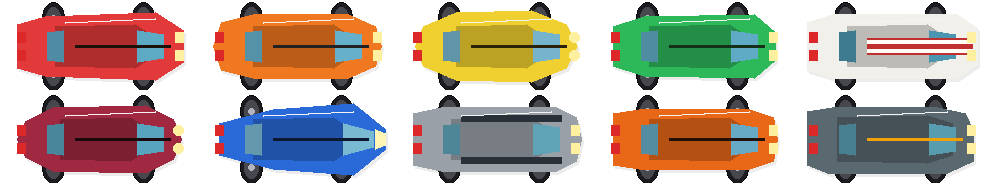
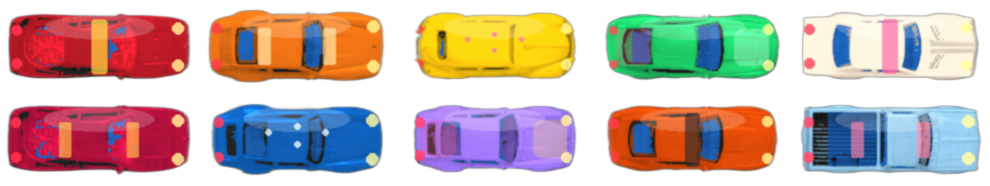
Restyle cars as cute toy paints on the original silhouettes.
Restore the previous cutouts, recolor them with candy toy paints, soften glass/lights, and add small cute accents and original names so they no longer read as brand 1:1 copies.

diff --git a/index.html b/index.html
@@ -596,7 +596,7 @@
     <section class="panel" id="menu">
       <div class="card">
         <h1>Halka Arabaları</h1>
-        <p id="build-tag" style="margin:0 0 8px;font-size:13px;font-weight:800;color:#f0a202;">Sürüm 34 · Oyuncak & patlama</p>
+        <p id="build-tag" style="margin:0 0 8px;font-size:13px;font-weight:800;color:#f0a202;">Sürüm 35 · Şirin oyuncak</p>
         <p style="margin:0 0 8px;font-size:14px;">Çek-bırak, halkaya dur. Aynı telefonda iki kişi de oynayabilir.</p>
         <p id="menu-best"></p>
         <p class="section-lab">Oyun modu</p>
@@ -754,12 +754,12 @@
     let ATLAS = null;
     let atlasImg = null;
     let carImages = [];
-    let PLAYER_COLORS = ["#e23a3a", "#f07820", "#f0d030", "#2db85a", "#f2f0ea", "#a02840", "#2a6ad8", "#9aa0a8", "#e86818", "#5a6870"];
-    let PLAYER_NAMES = ["Kızıl Ok", "Turuncu Fırtına", "Sarı Kabuk", "Yeşil Yıldırım", "Beyaz Şerit", "Bordo Gülle", "Mavi Okçu", "Gümüş Zırh", "Turuncu Tokmak", "Çelik Kasa"];
+    let PLAYER_COLORS = ["#ff3b4a", "#ff8f3a", "#ffd23a", "#3fd67f", "#fff3e6", "#ff2f66", "#2f93ff", "#b08fff", "#ff6a28", "#8eb2c8"];
+    let PLAYER_NAMES = ["Kırmızı Minik", "Şeftali Top", "Limon Bonbon", "Nane Yeşili", "Süt Beyaz", "Kiraz Jöle", "Gök Mavisi", "Lavanta Metal", "Turuncu Şeker", "Buz Grisi"];
     let CAR_COUNT = PLAYER_COLORS.length;
     function carFileUrl(i) {
       const file = (ATLAS && ATLAS.cars[i] && ATLAS.cars[i].file) ? ATLAS.cars[i].file : ("car_" + String(i).padStart(2, "0") + ".png");
-      return "cars/" + file + "?v=34";
+      return "cars/" + file + "?v=35";
     }
     function punchCrop(img) {
       const w = img.naturalWidth;
@@ -806,12 +806,12 @@
         carSheets[i] = sheet;
         if (i === 0) carSheets[2] = sheet;
       };
-      im.src = src + "?v=34";
+      im.src = src + "?v=35";
     });
     function loadCarImages(meta) {
       carImages = meta.cars.map((c, i) => {
         const im = new Image();
-        im.src = "cars/" + (c.file || ("car_" + String(i).padStart(2, "0") + ".png")) + "?v=34";
+        im.src = "cars/" + (c.file || ("car_" + String(i).padStart(2, "0") + ".png")) + "?v=35";
         return im;
       });
     }
@@ -828,13 +828,13 @@
       refreshMenuBest();
       if (state === "collection") renderCollection();
     }
-    fetch("cars/atlas.json?v=34")
+    fetch("cars/atlas.json?v=35")
       .then((r) => r.json())
       .then((meta) => new Promise((resolve, reject) => {
         const img = new Image();
         img.onload = () => resolve({ meta, img });
         img.onerror = reject;
-        img.src = "cars/atlas.png?v=34";
+        img.src = "cars/atlas.png?v=35";
       }))
       .then(({ meta, img }) => applyAtlas(meta, img))
       .catch(() => { /* atlas yoksa renk yedekleri kalır */ });

diff --git a/Assets/car.cs b/Assets/car.cs
@@ -58,16 +58,16 @@ public class car : MonoBehaviour
     };
     Color[] PlayerColors =
     {
-        new Color(0.89f, 0.23f, 0.23f),
-        new Color(0.94f, 0.47f, 0.13f),
-        new Color(0.94f, 0.82f, 0.19f),
-        new Color(0.18f, 0.72f, 0.35f),
-        new Color(0.95f, 0.94f, 0.92f),
-        new Color(0.63f, 0.16f, 0.25f),
-        new Color(0.16f, 0.42f, 0.85f),
-        new Color(0.60f, 0.63f, 0.66f),
-        new Color(0.91f, 0.41f, 0.09f),
-        new Color(0.35f, 0.41f, 0.44f),
+        new Color(1.00f, 0.23f, 0.29f),
+        new Color(1.00f, 0.56f, 0.23f),
+        new Color(1.00f, 0.82f, 0.23f),
+        new Color(0.25f, 0.84f, 0.50f),
+        new Color(1.00f, 0.95f, 0.90f),
+        new Color(1.00f, 0.18f, 0.40f),
+        new Color(0.18f, 0.58f, 1.00f),
+        new Color(0.69f, 0.56f, 1.00f),
+        new Color(1.00f, 0.42f, 0.16f),
+        new Color(0.56f, 0.70f, 0.78f),
     };
     static readonly Color[] BotColors =
     {
@@ -78,8 +78,8 @@ public class car : MonoBehaviour
     };
     string[] PlayerNames =
     {
-        "Kızıl Ok", "Turuncu Fırtına", "Sarı Kabuk", "Yeşil Yıldırım", "Beyaz Şerit",
-        "Bordo Gülle", "Mavi Okçu", "Gümüş Zırh", "Turuncu Tokmak", "Çelik Kasa"
+        "Kırmızı Minik", "Şeftali Top", "Limon Bonbon", "Nane Yeşili", "Süt Beyaz",
+        "Kiraz Jöle", "Gök Mavisi", "Lavanta Metal", "Turuncu Şeker", "Buz Grisi"
     };
 
     [System.Serializable]
